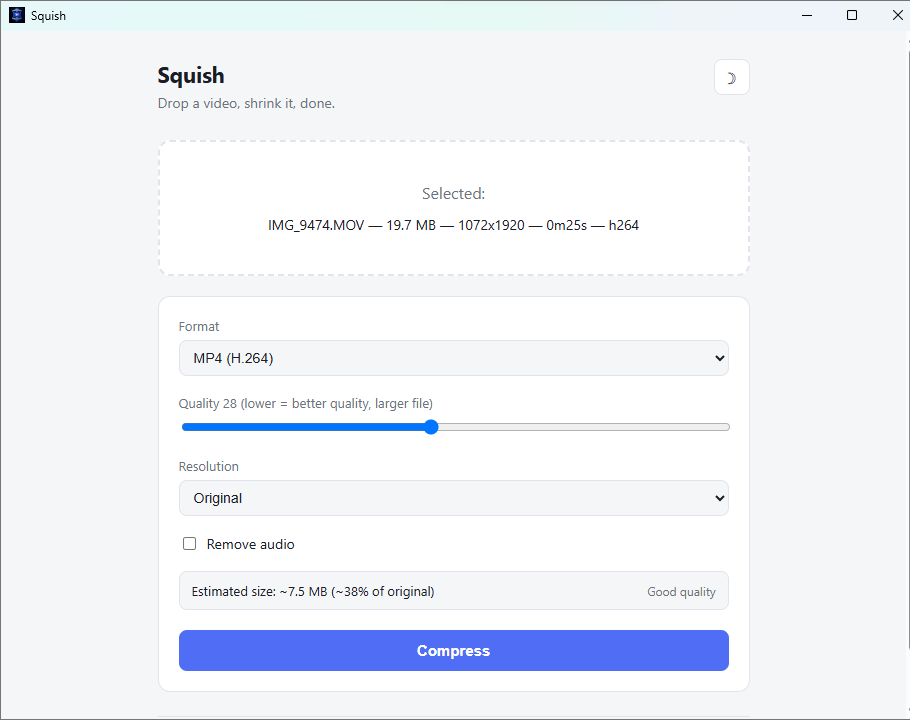
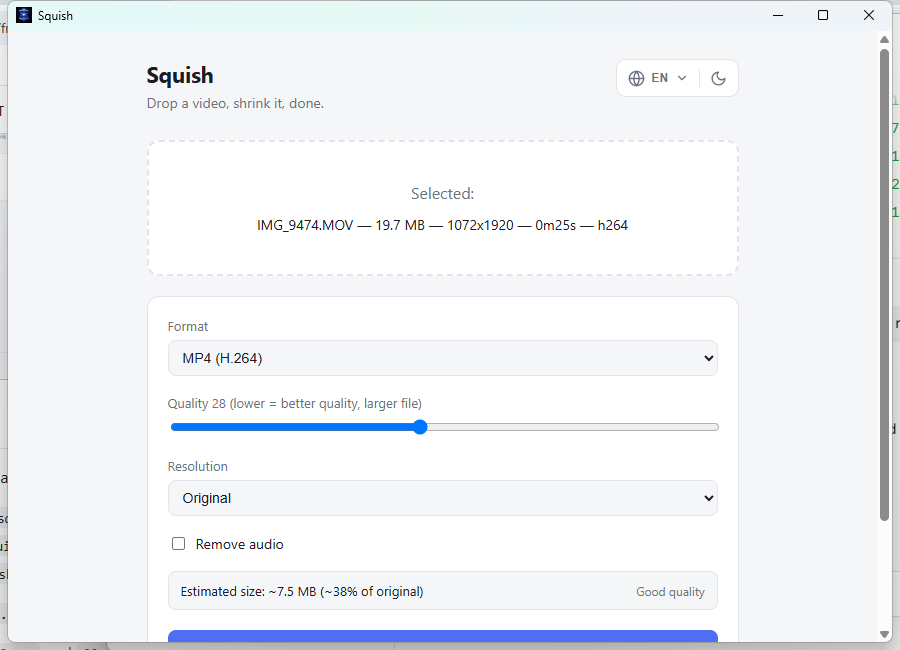
Rewrite README for the zero-dependency/i18n/auto-update release
Reflects the bundled-FFmpeg build (no separate install needed),
8-language UI with RTL support, in-app self-update, and the new
unified header toolbar. Updated screenshot and dropped the stale
empty-state one in favor of a single current shot.

diff --git a/README.md b/README.md
@@ -6,8 +6,8 @@
 
 **Drop a video, shrink it, done.**
 
-A tiny, fast, cross-platform desktop video compressor.
-No uploads, no accounts, no watermarks — everything runs locally through FFmpeg.
+A fast, zero-dependency, cross-platform desktop video compressor.
+No uploads, no accounts, no watermarks, and nothing to install first — FFmpeg ships inside the app.
 
 [![Release](https://img.shields.io/github/v/release/freeb5d/squish?label=release&color=4f6df5)](https://github.com/freeb5d/squish/releases/latest)
 [![Build](https://github.com/freeb5d/squish/actions/workflows/build.yml/badge.svg)](https://github.com/freeb5d/squish/actions/workflows/build.yml)
@@ -18,60 +18,73 @@ No uploads, no accounts, no watermarks — everything runs locally through FFmpe
 
 ---
 
-## What it does
+## Overview
 
 Pick a video, or drag one onto the window. Squish shows you its resolution, duration, codec, and
 size, then lets you dial in a format and quality — with a **live estimate of the output size**
-before you even hit compress.
+before you even hit compress. No prerequisites, no PATH configuration: FFmpeg is embedded in the
+binary and extracted automatically on first run.
+
+<div align="center">
+<img src="docs/screenshot.png" width="560" alt="Squish app window" />
+</div>
+
+## Features
 
 | | |
 |---|---|
+| 📦 **Zero dependencies** | FFmpeg/FFprobe are bundled in the executable — nothing to install |
 | 🎬 **Formats** | MP4 (H.264), MP4 (H.265 — smaller), WebM (VP9) |
 | 🎚 **Quality control** | CRF slider, live-labeled from "Excellent" to "Low" |
 | 📐 **Resolution scaling** | Original, 75%, 50%, 25% |
 | 🔇 **Audio** | Keep, or strip it entirely |
-| 📊 **Live estimate** | Predicted output size and quality before compressing |
+| 📊 **Live estimate** | Predicted output size and quality before you compress |
+| 🌍 **8 languages** | English, فارسی, العربية, 简体中文, Русский, Français, Deutsch, Te Reo Māori — full RTL support for Persian and Arabic |
 | 🌗 **Theming** | Light / dark, remembers your choice |
-| 🔔 **Update checks** | Notifies you when a newer release is out |
+| 🔄 **In-app updates** | Checks GitHub for new releases and installs them with a live progress bar (%, speed) — no manual download |
 | 🖱 **Drag & drop** | Or use the native file picker |
-
-## Screenshot
-
-<div align="center">
-<img src="docs/screenshot-empty.png" width="400" alt="Squish drop zone" />
-<img src="docs/screenshot.png" width="400" alt="Squish settings panel with live size estimate" />
-</div>
+| 🪶 **Lightweight UI** | Native WebView, not a bundled Chromium/Electron runtime |
 
 ## Download
 
 Grab a prebuilt binary for your platform from the
-**[latest release](https://github.com/freeb5d/squish/releases/latest)**:
+**[latest release](https://github.com/freeb5d/squish/releases/latest)** — just run it, no setup required:
 
 - **Windows** — `squish-windows-amd64.exe`
 - **macOS** — `squish-macos-universal.zip` (Intel + Apple Silicon)
 - **Linux** — `squish-linux-amd64`
 
 Every push of a `v*.*.*` tag builds and publishes all three automatically via
-[GitHub Actions](.github/workflows/build.yml).
-
-> Squish needs `ffmpeg` and `ffprobe` on your system `PATH` to run — see
-> [ffmpeg.org/download.html](https://ffmpeg.org/download.html).
+[GitHub Actions](.github/workflows/build.yml), with FFmpeg baked into each binary at build time.
+Squish also checks for new releases itself and can update in place — see **About** in the app footer.
 
 ## How it works
 
-Squish doesn't reimplement video codecs — like every tool in this space, it shells out to the
-`ffmpeg` / `ffprobe` binaries already on your machine and wraps them in a native, lightweight GUI
-(no Chromium/Electron bundle). The Go backend ([`app.go`](app.go)) builds the ffmpeg command from
-your chosen settings, parses `-progress` output to drive the progress bar, and exposes it all to a
-small vanilla HTML/JS frontend via [Wails](https://wails.io) bindings.
+Squish doesn't reimplement video codecs — like every tool in this space, it drives `ffmpeg` /
+`ffprobe` under the hood and wraps them in a native, lightweight GUI (no Chromium/Electron bundle).
+Unlike most tools in this space, it doesn't require you to install FFmpeg separately: the CI
+pipeline downloads the platform's FFmpeg binaries and embeds them directly into the executable via
+Go's `embed` package. On first run, Squish extracts them to a per-user cache directory and uses
+that copy — no PATH configuration, no separate installer.
+
+The Go backend ([`app.go`](app.go)) builds the ffmpeg command from your chosen settings, parses
+`-progress` output to drive the compression progress bar, and exposes it all to a small vanilla
+HTML/JS frontend via [Wails](https://wails.io) bindings. The self-update flow
+([`update.go`](update.go), [`update_windows.go`](update_windows.go),
+[`update_unix.go`](update_unix.go)) downloads the matching release asset with progress events, then
+replaces the running binary in place and relaunches.
 
 ## Building from source
 
 **Prerequisites**
 
 - [Go](https://go.dev/dl/) 1.21+
-- [FFmpeg](https://ffmpeg.org/download.html) (`ffmpeg` and `ffprobe` on your `PATH`)
 - [Wails CLI](https://wails.io/docs/gettingstarted/installation) v2: `go install github.com/wailsapp/wails/v2/cmd/wails@latest`
+- FFmpeg is *not* required to build — a plain `wails build` falls back to whatever `ffmpeg`/`ffprobe`
+  are on your `PATH` at runtime (handy for local development). To produce a fully self-contained
+  binary like the official releases, place real `ffmpeg`/`ffprobe` binaries at
+  `resources/ffmpeg/<windows|darwin|linux>/` before building — see
+  [`.github/workflows/build.yml`](.github/workflows/build.yml) for exactly how CI does this.
 
 ```bash
 git clone https://github.com/freeb5d/squish.git
@@ -83,16 +96,29 @@ wails build    # produce a release binary in build/bin/
 ## Project layout
 
 ```
-main.go             entrypoint, Wails app config
-app.go               backend: file dialogs, ffprobe/ffmpeg wrapper, progress events
-update.go            GitHub release version checks
-version.go           app version constant
-exec_windows.go       hides the console window ffmpeg/ffprobe would otherwise flash
+main.go                entrypoint, Wails app config
+app.go                  backend: file dialogs, ffprobe/ffmpeg wrapper, progress events
+update.go               GitHub release checks + download-with-progress
+update_windows.go       self-update install step (Windows: batch-script relaunch dance)
+update_unix.go          self-update install step (macOS/Linux: in-place binary swap)
+ffmpeg_bundled.go       extracts the embedded ffmpeg/ffprobe binaries on first run
+ffmpeg_embed_*.go       go:embed directives, one per platform
+exec_windows.go         hides the console window ffmpeg/ffprobe would otherwise flash
 exec_other.go
-frontend/dist/        static HTML/CSS/JS frontend (no build step required)
-.github/workflows/    CI: builds + releases Windows/macOS/Linux binaries on tag push
+version.go              app version constant
+resources/ffmpeg/       placeholder (0-byte) binaries in git; CI fills these in before building
+frontend/dist/          static HTML/CSS/JS frontend (no build step required)
+  i18n.js                 translation strings for all 8 languages
+  fonts/                  embedded Vazirmatn font for Persian
+.github/workflows/      CI: downloads FFmpeg, builds, and releases Windows/macOS/Linux binaries
 ```
 
 ## License
 
 [MIT](LICENSE)
+
+---
+
+<div align="center">
+<sub>Made with ❤ by Kaveh</sub>
+</div>
